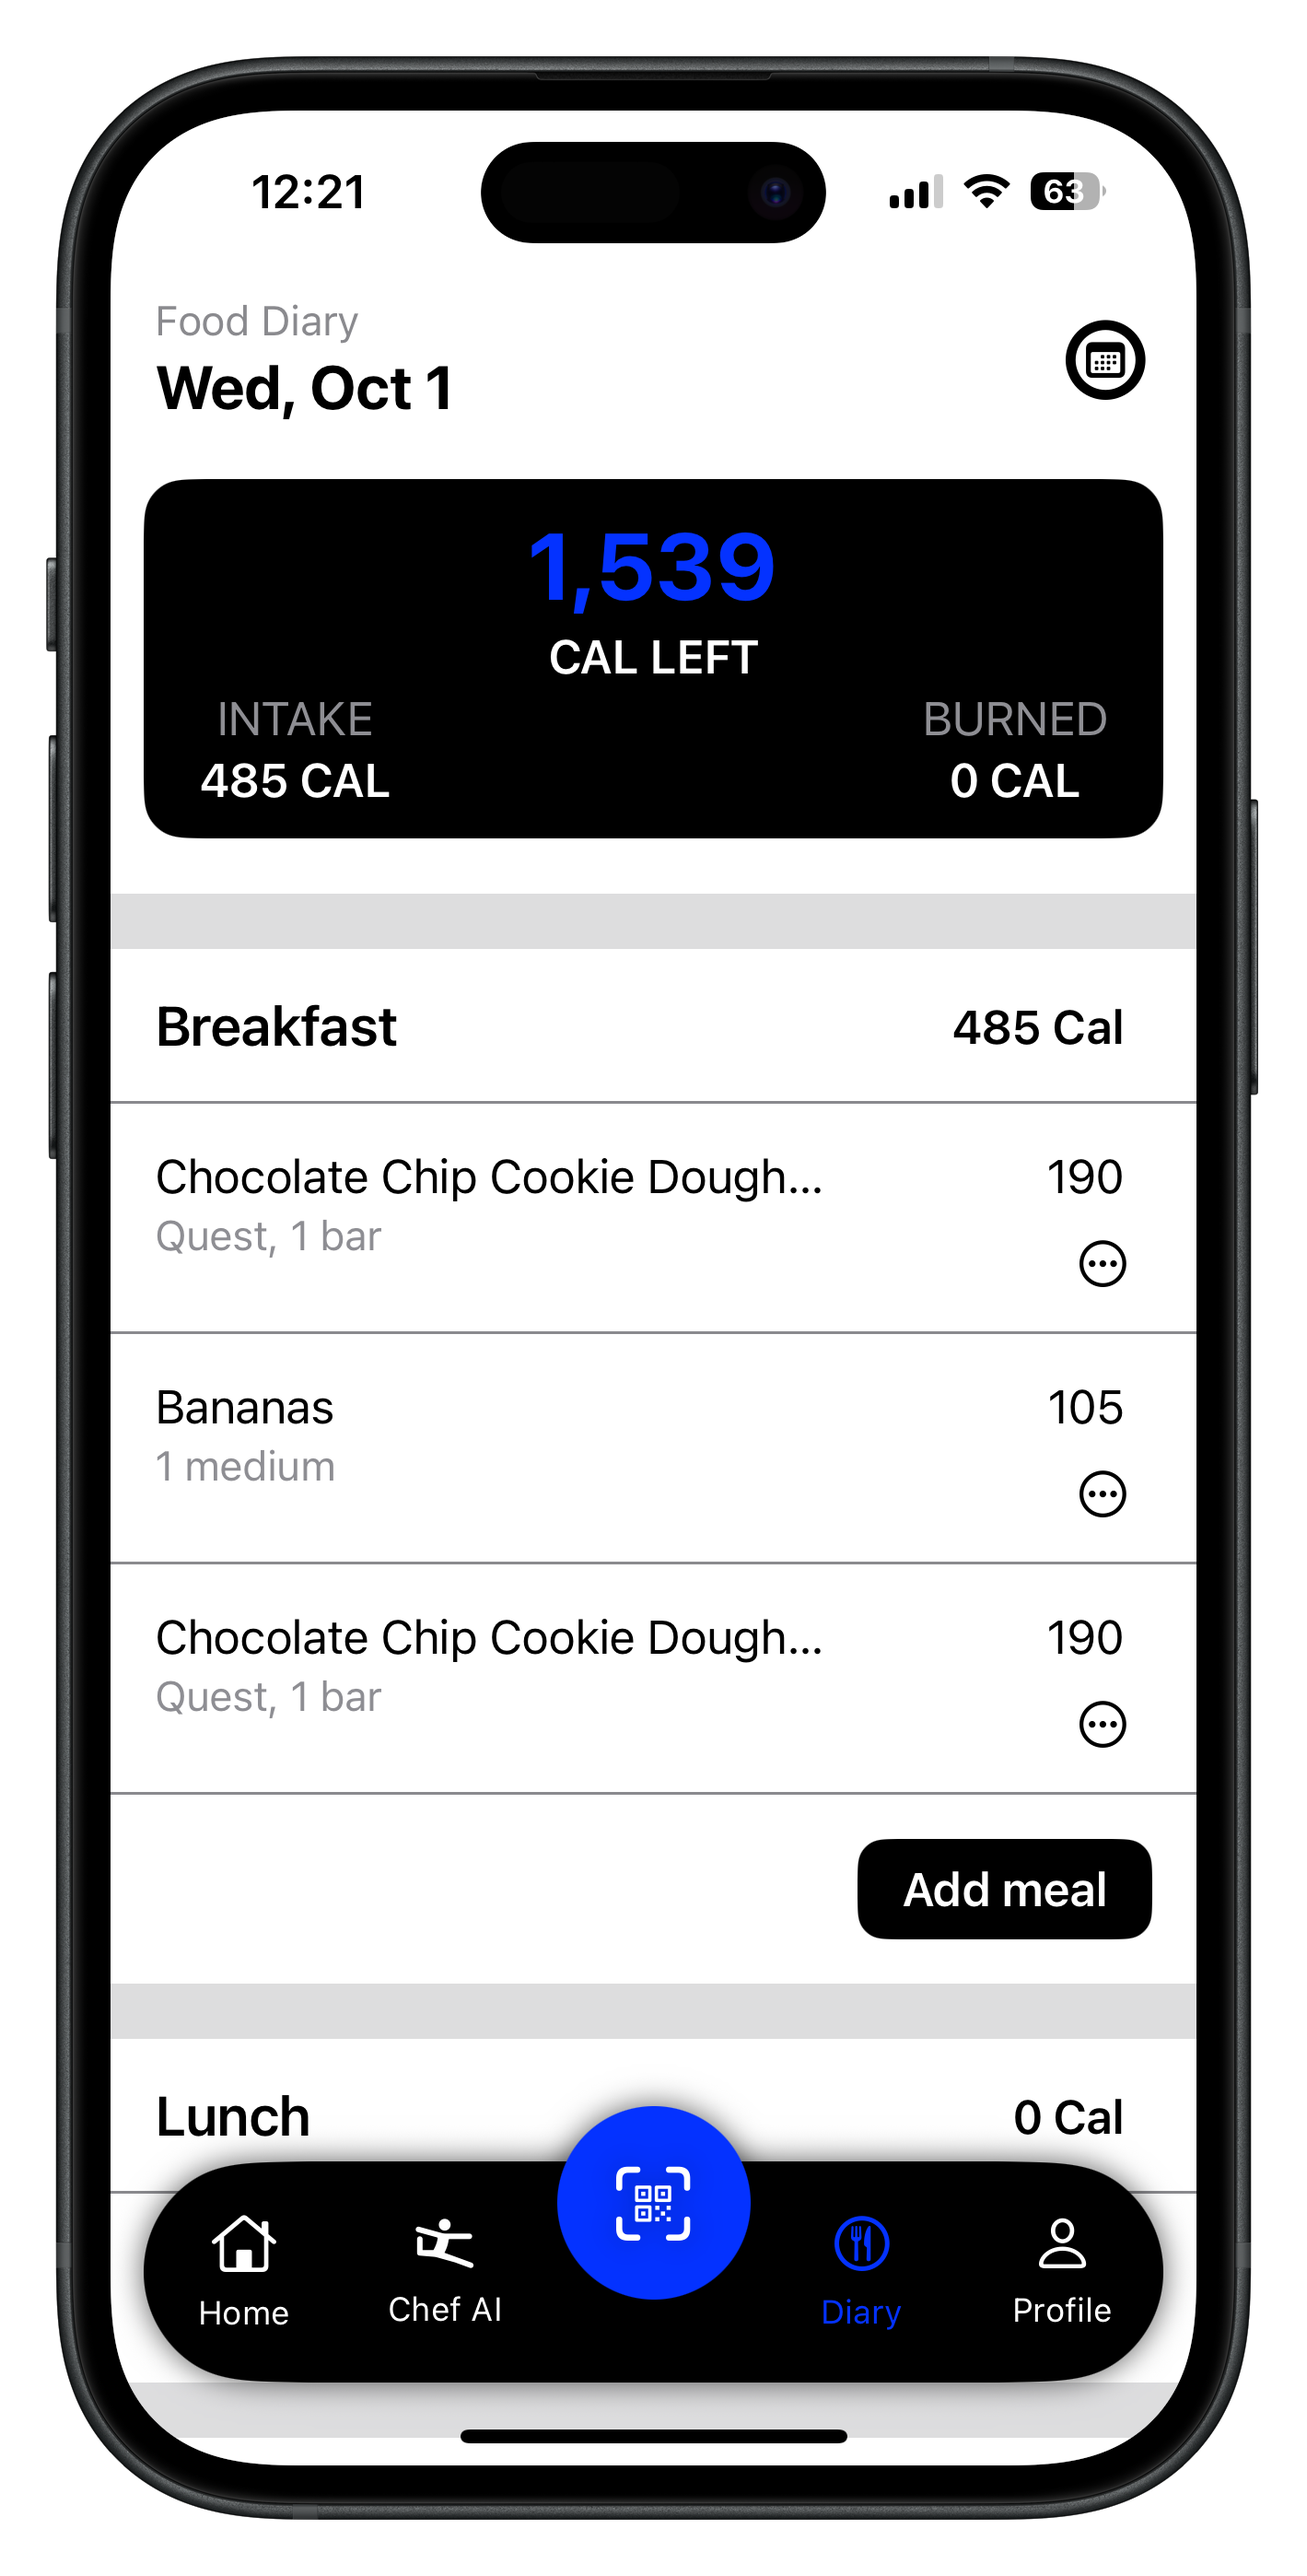
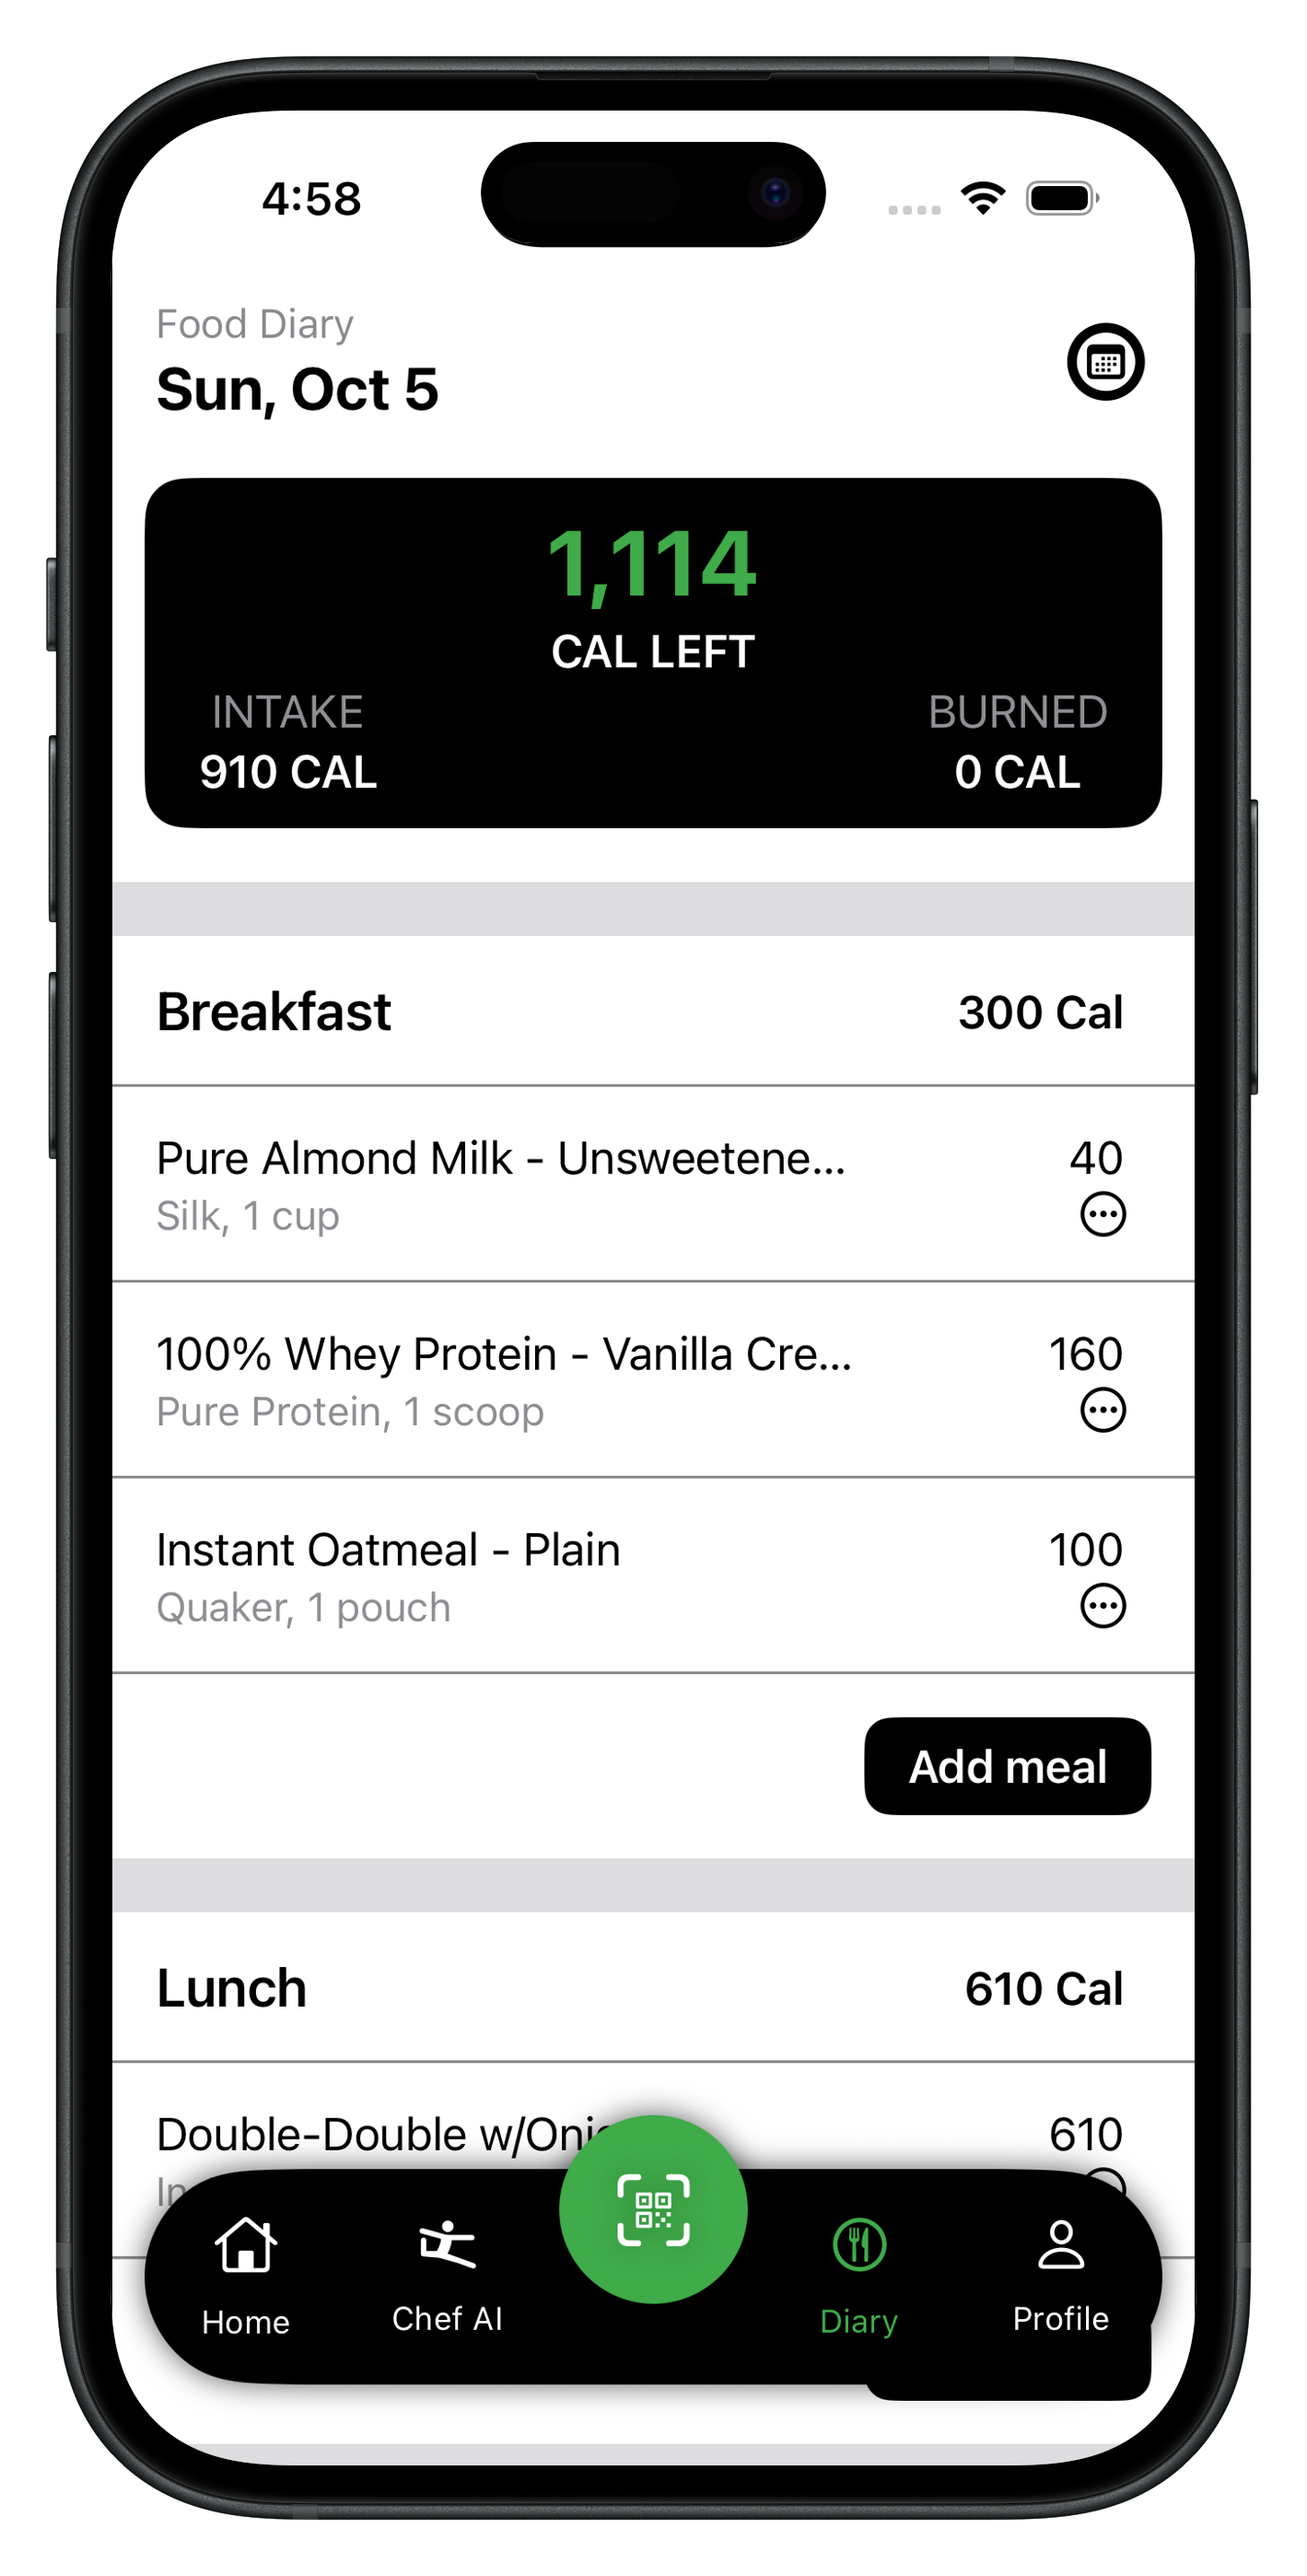
updated with green theme

diff --git a/src/pages/Landing.tsx b/src/pages/Landing.tsx
@@ -19,14 +19,14 @@ export default function Landing() {
               for real life.
             </p>
             <div className="mt-6 flex flex-wrap gap-3">
-              <a href="https://testflight.apple.com/join/uhsJJhnK" target='_blank' rel="noopener noreferrer" className="rounded-md bg-[#0432FF] px-3 py-2 text-sm font-semibold text-white hover:bg-[#0028d8]">Download Beta</a>
+              <a href="https://testflight.apple.com/join/uhsJJhnK" target='_blank' rel="noopener noreferrer" className="rounded-md bg-main px-3 py-2 text-sm font-semibold text-white hover:bg-main-dark">Download Beta</a>
             </div>
 
           </div>
 
           <div className="relative">
             {/* Fallback placeholder visual */}
-            <img src="flyer.png" className="aspect-[4/3] w-full   " />
+            <img src="flyer-green.png" className="aspect-[4/3] w-full   " />
           </div>
         </div>
       </section>
@@ -66,7 +66,7 @@ export default function Landing() {
               className="rounded-xl border border-gray-200 bg-white p-5 shadow-sm"
             >
               <div className="mb-3 h-8 w-8 rounded">
-                <img src="/logo.png" className="h-8 w-8 rounded" />
+                <img src="/logo-green.jpg" className="h-8 w-8 rounded" />
               </div>
               <h3 className="text-base font-semibold">{f.title}</h3>
               <p className="mt-1 text-sm text-gray-600">{f.desc}</p>
@@ -79,16 +79,16 @@ export default function Landing() {
 
       {/* 1-2-3 Section */}
       <section className="mx-auto mt-20 max-w-7xl px-4 sm:mt-28 sm:px-6">
-        <h2 className="text-center text-3xl sm:text-5xl font-extrabold bg-gradient-to-r from-[#0432FF] to-[#FFA5E2] bg-clip-text text-transparent">
+        <h2 className="text-center text-3xl sm:text-5xl font-extrabold bg-gradient-to-r  from-[#FF7F11] via-main to-main-dark bg-clip-text text-transparent">
           Hit your goals, one meal at a time.
         </h2>
 
         <div className="mt-14 grid gap-12 lg:gap-16">
           {/* Step 1 */}
           <div className="group relative rounded-3xl bg-white shadow-xl hover:shadow-2xl transition duration-300 overflow-hidden">
-            <div className="absolute top-4 left-4 flex h-10 w-10 items-center justify-center rounded-full bg-[#0432FF] text-white font-bold text-lg">1</div>
+            <div className="absolute top-4 left-4 flex h-10 w-10 items-center justify-center rounded-full bg-main text-white font-bold text-lg">1</div>
             <div className="grid md:grid-cols-2 items-center">
-              <div className="bg-[#d400ff]/20 flex items-center justify-center p-6">
+              <div className="bg-main/20 flex items-center justify-center p-6">
                 <img src="/app-img-diary.png" alt="Track calories" className="w-64 max-w-full " />
               </div>
               <div className="p-8">
@@ -103,7 +103,7 @@ export default function Landing() {
 
           {/* Step 2 */}
           <div className="group relative rounded-3xl bg-white shadow-xl hover:shadow-2xl transition duration-300 overflow-hidden">
-            <div className="absolute top-4 left-4 flex h-10 w-10 items-center justify-center rounded-full bg-[#0432FF] text-white font-bold text-lg">2</div>
+            <div className="absolute top-4 left-4 flex h-10 w-10 items-center justify-center rounded-full bg-main text-white font-bold text-lg">2</div>
             <div className="grid md:grid-cols-2 items-center">
               <div className="p-8 order-2 md:order-1">
                 <h3 className="text-2xl font-semibold">See your progress clearly</h3>
@@ -111,7 +111,7 @@ export default function Landing() {
                   Charts, streaks, and insights that keep you on track without stressing perfection.
                 </p>
               </div>
-              <div className="order-1 md:order-2 flex items-center justify-center p-6 bg-[#ff005d]/20">
+              <div className="order-1 md:order-2 flex items-center justify-center p-6 bg-[#FF7F11]/20">
                 <img
                   src="/app-img-home.png"
                   alt="Follow progress"
@@ -123,7 +123,7 @@ export default function Landing() {
 
           {/* Step 3 */}
           <div className="group relative rounded-3xl bg-white shadow-xl hover:shadow-2xl transition duration-300 overflow-hidden">
-            <div className="absolute top-4 left-4 flex h-10 w-10 items-center justify-center rounded-full bg-[#0432FF] text-white font-bold text-lg">3</div>
+            <div className="absolute top-4 left-4 flex h-10 w-10 items-center justify-center rounded-full bg-main text-white font-bold text-lg">3</div>
             <div className="grid md:grid-cols-2 items-center">
               <div className="p-8 order-2 md:order-2">
                 <h3 className="text-2xl font-semibold">Smarter eating, simplified</h3>
@@ -131,7 +131,7 @@ export default function Landing() {
                   Discover what fuels you best and get meal ideas tailored to your lifestyle.
                 </p>
               </div>
-              <div className=" order-1 md:order-1 flex items-center justify-center p-6 bg-[#0432FF]/20">
+              <div className=" order-1 md:order-1 flex items-center justify-center p-6 bg-[#FF69B4]/20">
                 <img src="/app-img-search.png" alt="Search foods" className="w-64 max-w-full " />
               </div>
             </div>
@@ -141,7 +141,7 @@ export default function Landing() {
 
       {/* CTA */}
       <section id="cta" className="mx-auto mt-16 max-w-7xl px-4 sm:mt-24 sm:px-6">
-        <div className="rounded-2xl bg-[#0432FF] px-6 py-10 text-white sm:px-10">
+        <div className="rounded-2xl bg-main px-6 py-10 text-white sm:px-10">
           <div className="max-w-2xl">
             <h2 className="text-2xl font-bold sm:text-3xl">Start tracking today</h2>
             <p className="mt-2 text-white/90">

diff --git a/src/components/Navbar.tsx b/src/components/Navbar.tsx
@@ -16,13 +16,13 @@ export default function Navbar({ onNavigate }: Props) {
       <div className="mx-auto flex max-w-7xl items-center justify-between px-4 py-3 sm:px-6">
         <a href="#/" onClick={handleNav('#/')} className="flex items-center gap-2">
           {/* Placeholder logo */}
-          <img src="/logo.png" className="h-8 w-8 rounded" />
+          <img src="/logo-green.jpg" className="h-10 w-10 rounded" />
           <span className="text-lg font-semibold text-gray-900">NutriTrack</span>
         </a>
         <nav className="hidden items-center gap-6 md:flex">
           <a href="#/" onClick={handleNav('#/')} className="text-sm font-medium text-gray-700 hover:text-gray-900">Home</a>
           <a href="#/" onClick={handleNav('#/privacy')} className="text-sm font-medium text-gray-700 hover:text-gray-900">Privacy</a>
-          <a href="https://testflight.apple.com/join/uhsJJhnK" target='_blank' rel="noopener noreferrer" className="rounded-md bg-[#0432FF] px-3 py-2 text-sm font-semibold text-white hover:bg-[#0028d8]">Download Beta</a>
+          <a href="https://testflight.apple.com/join/uhsJJhnK" target='_blank' rel="noopener noreferrer" className="rounded-md bg-main px-3 py-2 text-sm font-semibold text-white hover:bg-main-dark">Download Beta</a>
         </nav>
       </div>
     </header>

diff --git a/src/pages/Privacy.tsx b/src/pages/Privacy.tsx
@@ -91,7 +91,7 @@ export default function Privacy() {
         </section>
 
         <div className="mt-8">
-          <a href="#/" className="text-sm font-semibold text-[#0432FF] hover:text-[#0028d8]">
+          <a href="#/" className="text-sm font-semibold text-main hover:text-main-dark">
             ← Back to Home
           </a>
         </div>

diff --git a/src/App.css b/src/App.css
@@ -1,1 +1,10 @@
 /* Component-scoped styles (kept minimal). Tailwind is imported in index.css. */
+
+@import "tailwindcss";
+
+
+@theme {
+  --color-mint-500: oklch(0.72 0.11 178);
+  --color-main: #40ab49;
+  --color-main-dark: #2e7c36
+}
